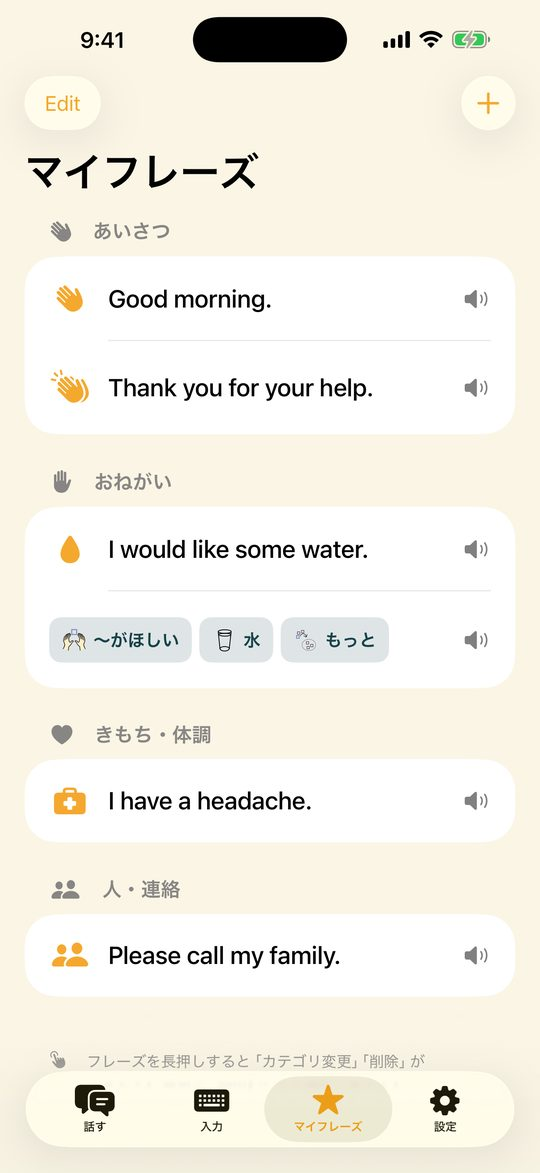
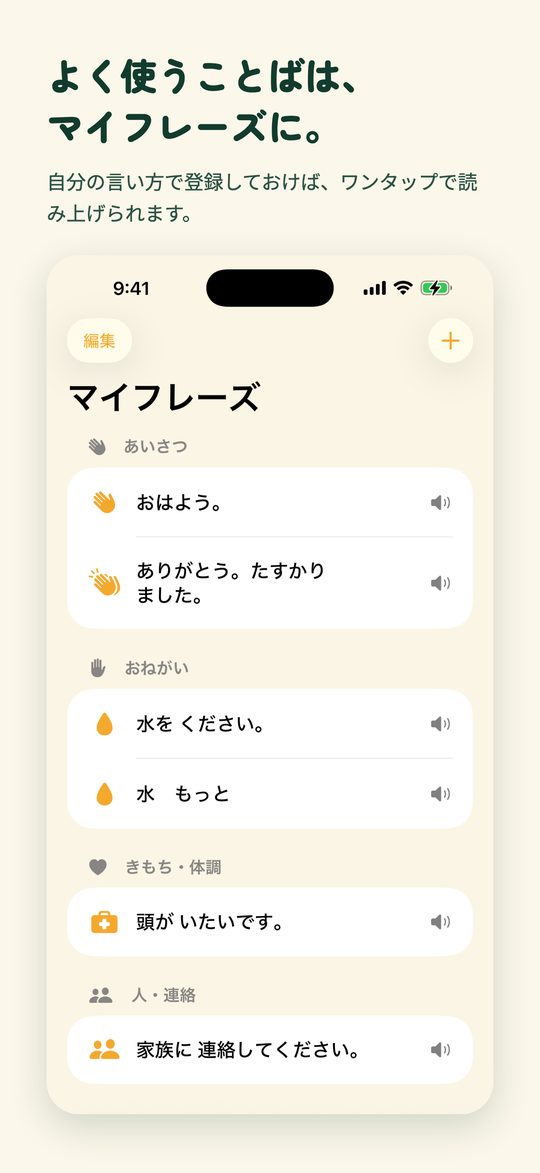
lp: Sayable 1.4.2 の新しいストア画像を反映

diff --git a/sayable/index.html b/sayable/index.html
@@ -97,7 +97,7 @@ footer .notice{font-size:11.5px;margin-top:10px}
     <a class="btn" href="https://apps.apple.com/jp/app/id6792041501?ct=lp" rel="noopener"><svg viewBox="0 0 24 24" aria-hidden="true"><path d="M16.7 12.6c0-2.6 2.1-3.8 2.2-3.9-1.2-1.8-3.1-2-3.7-2-1.6-.2-3.1.9-3.9.9-.8 0-2-.9-3.3-.9-1.7 0-3.3 1-4.2 2.5-1.8 3.1-.5 7.8 1.3 10.3.9 1.2 1.9 2.6 3.2 2.6 1.3-.1 1.8-.8 3.3-.8s2 .8 3.3.8c1.4 0 2.3-1.3 3.1-2.5 1-1.4 1.4-2.8 1.4-2.9-.1 0-2.7-1-2.7-4.1zM14.2 5c.7-.8 1.1-2 1-3.1-1 0-2.2.7-2.9 1.5-.6.7-1.2 1.9-1 3 1.1.1 2.2-.5 2.9-1.4z"/></svg>App Store からダウンロード</a>
     <p class="price">無料でダウンロード。追加機能は買い切り（¥2,000）で解放できます。</p>
   </div>
-  <div class="phone"><img src="img/ss-02.jpg" alt="Sayable の画面" width="540"></div>
+  <div class="phone"><img src="img/ss-03.jpg" alt="Sayable の画面" width="540"></div>
 </div></section>
 
 <section><div class="wrap">
@@ -120,9 +120,6 @@ footer .notice{font-size:11.5px;margin-top:10px}
 <figure class="shot"><img src="img/ss-06.jpg" alt="Sayable の画面 6" loading="lazy" width="540"></figure>
 <figure class="shot"><img src="img/ss-07.jpg" alt="Sayable の画面 7" loading="lazy" width="540"></figure>
 <figure class="shot"><img src="img/ss-08.jpg" alt="Sayable の画面 8" loading="lazy" width="540"></figure>
-<figure class="shot"><img src="img/ss-09.jpg" alt="Sayable の画面 9" loading="lazy" width="540"></figure>
-<figure class="shot"><img src="img/ss-10.jpg" alt="Sayable の画面 10" loading="lazy" width="540"></figure>
-<figure class="shot"><img src="img/ss-11.jpg" alt="Sayable の画面 11" loading="lazy" width="540"></figure>
   </div>
 </div></section>
 
